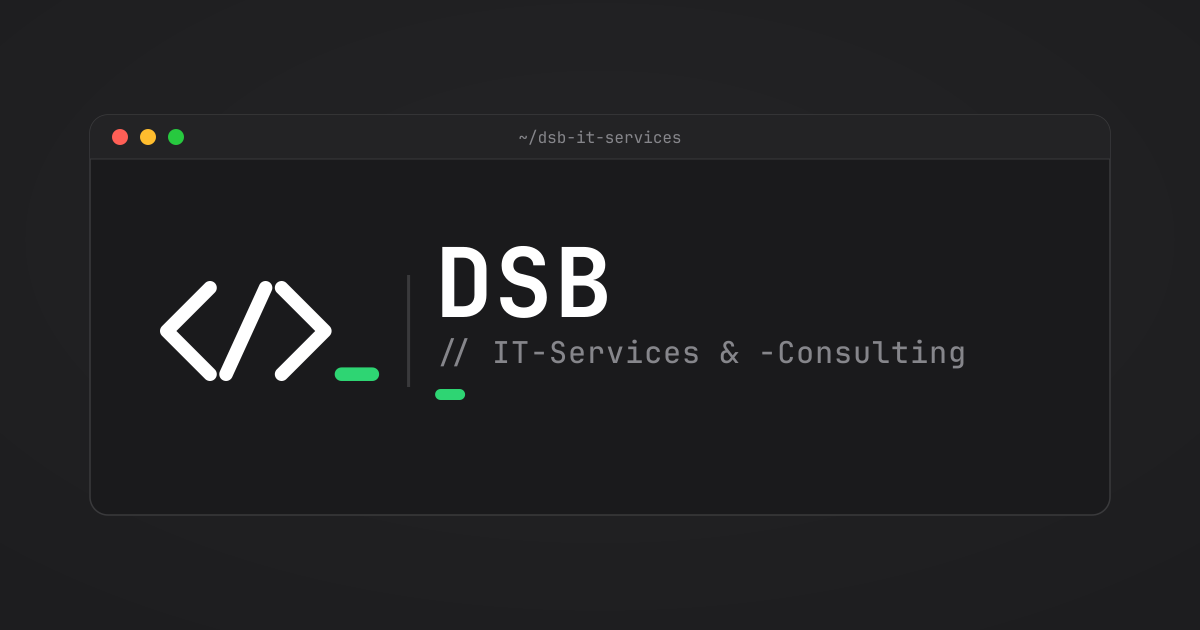
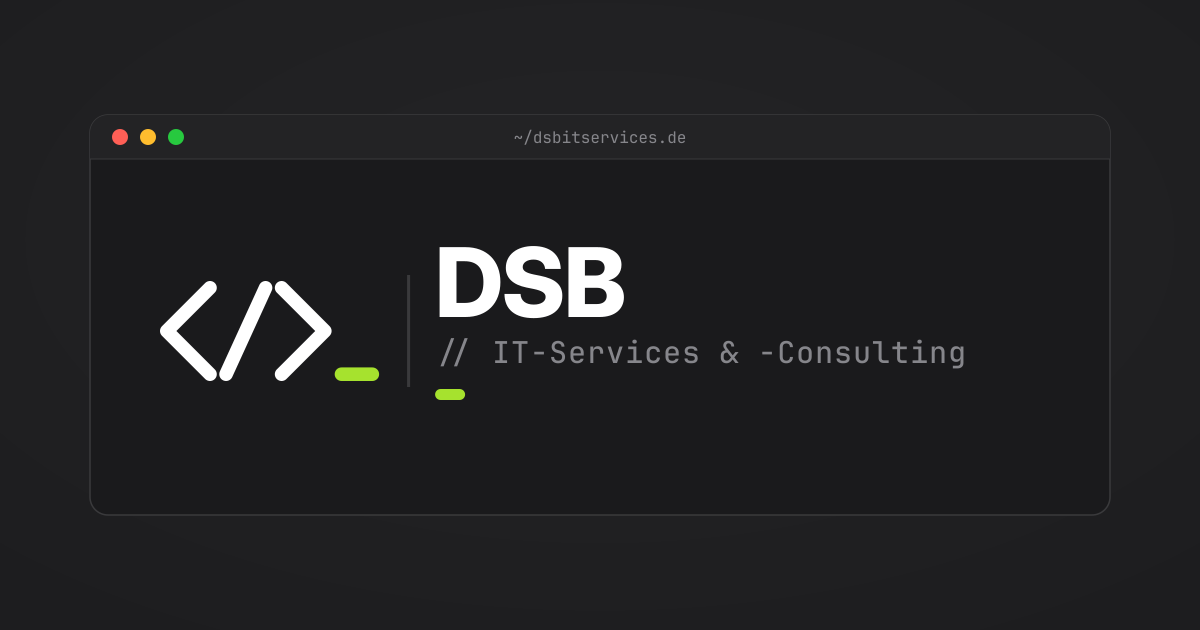
Brand CI v1.1: lime accent, Inter Display wordmark
Replace the mint/emerald accent with a lime signature color and move
the DSB/dsb wordmark from monospace to a bold Inter Display headline
(monospace now reserved for terminal-chrome/tagline text only), per
direct feedback and a reference screenshot.

Also documents two concrete, actively operating "DSB"-named German IT
companies found during a naming-collision check (dsb IT-Services GmbH,
DSB Data Service for Business GmbH), and notes the dsbitservices.de
domain is already distinct from both -- domain registration doesn't by
itself resolve a company-name/trademark conflict.

Claude-Session: https://claude.ai/code/session_01TPTaYvHv7HHe8MeCBmYDpN

diff --git a/brand/BRAND-CI.md b/brand/BRAND-CI.md
@@ -1,8 +1,10 @@
 # DSB IT-Services & -Consulting — Brand CI
 
-Version 1.0 · September 2026 · Konzept: „Terminal Mark"
+Version 1.1 · September 2026 · Konzept: „Terminal Mark"
 
 Vollständig neu konstruiertes Markensystem auf Basis der ursprünglichen Sketch-Idee (`<`, `>`, `/`, `_`). Geometrie, Proportionen und Farbsystem wurden für professionelle Anwendung neu aufgebaut — nicht die Handzeichnung 1:1 übernommen.
+
+**Änderungen v1.1:** Akzentfarbe von Mint/Emerald auf Lime umgestellt, Wortmarke „DSB"/„dsb" von Monospace auf einen fetten Grotesk-Display-Font umgestellt (Monospace bleibt für Terminal-Chrome/Tagline), Abschnitt 7 um konkrete Namenskollisions-Funde ergänzt.
 
 ---
 
@@ -26,7 +28,7 @@ Vollständig neu konstruiertes Markensystem auf Basis der ursprünglichen Sketch
 | **Terminal Black** | `#1D1D1F` | 29, 29, 31 | 6, 6, 0, 88 | Primäre Fläche (dunkel), Text auf Hell |
 | **Cloud White** | `#F5F5F7` | 245, 245, 247 | 1, 1, 0, 3 | Primäre Fläche (hell) |
 | **Reinweiß** | `#FFFFFF` | 255, 255, 255 | 0, 0, 0, 0 | Marke auf dunklem Grund |
-| **Terminal Green** | `#2ED573` | 46, 213, 115 | 78, 0, 46, 16 | **Signature-Akzent** — Cursor, Links, CTAs, Erfolgsstatus |
+| **Lime** | `#A6E22E` | 166, 226, 46 | 27, 0, 80, 11 | **Signature-Akzent** — Cursor, Links, CTAs, Erfolgsstatus |
 | **Slate Gray** | `#86868B` | 134, 134, 139 | 4, 4, 0, 45 | Sekundärtext, Taglines |
 | **Border Gray** | `#3A3A3C` | 58, 58, 60 | 3, 3, 0, 76 | Trennlinien, Chrome-Rahmen (Dark) |
 | Traffic Red *(nur Fenster-Chrome)* | `#FF5F56` | 255, 95, 86 | 0, 63, 66, 0 | Nur im Terminal-Chrome-Element, kein Markenfarbe |
@@ -35,7 +37,9 @@ Vollständig neu konstruiertes Markensystem auf Basis der ursprünglichen Sketch
 
 \* CMYK-Werte sind rechnerische Näherungen (Standard-Konversion) für die erste Druck-Orientierung — vor Produktion mit dem ICC-Profil der Druckerei bzw. einem Pantone-Bridge-Fächer abgleichen. Nicht 1:1 als Sonderfarbe freigeben.
 
-**Kontrast:** Terminal Green auf Terminal Black erfüllt WCAG-Grafikkontrast (>3:1) komfortabel. Für Fließtext niemals Grau-auf-Grau oder Green-auf-White unter 14px einsetzen.
+**Kontrast:** Lime auf Terminal Black erfüllt WCAG-Grafikkontrast (>3:1) deutlich. Für Fließtext niemals Grau-auf-Grau oder Lime-auf-White unter 14px einsetzen — Lime ist ein Akzent, kein Lesefarbe.
+
+**Warum Lime statt Mint/Grün:** Klassischer Terminal-/Editor-Bezug (u. a. Monokai-Farbschema) statt generisches „Tech-Grün" — schärfer, unverwechselbarer, funktioniert als kleiner Akzent (Cursor, CTA) besser als in der Fläche.
 
 **Regel:** Genau **eine** Akzentfarbe. Die Ampel-Farben sind ausschließlich dekoratives Chrome-Element (Fenstersimulation), niemals als Markenfarbe in Diagrammen, Buttons o. Ä. verwenden — sonst verwässert der Wiedererkennungswert.
 
@@ -43,17 +47,25 @@ Vollständig neu konstruiertes Markensystem auf Basis der ursprünglichen Sketch
 
 ## 3. Typografie
 
+Zwei Rollen, bewusst getrennt — genau wie im Referenz-Screenshot (fette Headline + kleine Monospace-Terminalzeile):
+
 | Rolle | Font | Schnitt | Lizenz |
 |---|---|---|---|
-| **Primär (Cross-Plattform, Web, Office)** | JetBrains Mono | Bold/SemiBold (Wortmarke), Medium/Regular (Fließtext) | SIL Open Font License 1.1 — frei kommerziell nutz-, einbett- und modifizierbar |
-| **Enhancement (nur native Apple-Umgebung)** | SF Mono | via System-Fontstack | Apple-proprietär — **nicht** für Web-Embedding oder Drittsysteme lizenziert, nur auf Apple-Geräten via Systemfont zulässig |
+| **Display — Name/Headline** („DSB", „dsb") | Inter Display (Fallback: Inter) | ExtraBold 800, Letter-Spacing leicht negativ (−1 bis −2 %) | SIL Open Font License 1.1 — frei kommerziell nutz-, einbett- und modifizierbar |
+| **Mono — Terminal-Chrome/Tagline** (`// IT-Services & -Consulting`, Pfad-Zeile, Labels) | JetBrains Mono | Medium/Regular | SIL Open Font License 1.1 |
+| **Enhancement (nur native Apple-Umgebung)** | SF Mono | via System-Fontstack, ersetzt JetBrains Mono nur dort | Apple-proprietär — **nicht** für Web-Embedding oder Drittsysteme lizenziert |
 
-**CSS-Fontstack:**
+**Regel:** Der eigentliche Markenname („DSB"/„dsb") steht **immer** in Inter Display ExtraBold — nie in Monospace. Monospace ist reserviert für alles, was wie eine Terminal-Ausgabe wirken soll (Tagline, Pfad-Zeile, Meta-Labels). Die beiden Rollen nicht vertauschen, sonst geht der Kontrast zwischen „Marke" und „Terminal-Deko" verloren.
+
+**CSS-Fontstacks:**
 ```css
+/* Display / Wortmarke */
+font-family: 'Inter Display', 'Inter', ui-sans-serif, system-ui, sans-serif;
+/* Mono / Terminal-Chrome */
 font-family: 'JetBrains Mono', ui-monospace, 'SF Mono', Menlo, Consolas, monospace;
 ```
 
-**Wichtiger Hinweis:** SF Mono niemals als Webfont hochladen/einbetten (Lizenzverletzung). JetBrains Mono ist der tatsächliche Cross-Plattform-Markenfont; SF Mono greift automatisch nur auf Apple-Geräten über den System-Fontstack.
+**Wichtiger Hinweis:** SF Mono niemals als Webfont hochladen/einbetten (Lizenzverletzung). Sowohl Inter als auch JetBrains Mono sind frei; SF Mono greift automatisch nur auf Apple-Geräten über den System-Fontstack.
 
 Alle Wortmarken-Dateien in `/svg` sind bereits **in Pfade konvertiert (outlined)** — sie rendern korrekt, auch ohne installierte Schrift auf dem Zielsystem.
 
@@ -111,7 +123,8 @@ Alle Wortmarken-Dateien in `/svg` sind bereits **in Pfade konvertiert (outlined)
 **Do:**
 - Symbol immer proportional skalieren (nie Höhe/Breite getrennt verzerren).
 - Auf dunklem Grund → Weiß/Green-Variante. Auf hellem Grund → Black/Green-Variante. Auf Fotos/komplexem Hintergrund → Mono-Variante mit dezentem Schlagschatten oder auf Terminal-Kachel setzen.
-- Cursor-Akzent bleibt immer Terminal Green — auch wenn die Struktur (Klammern) in Sonderfällen einfarbig läuft.
+- Cursor-Akzent bleibt immer Lime — auch wenn die Struktur (Klammern) in Sonderfällen einfarbig läuft.
+- Markenname „DSB"/„dsb" immer in Inter Display ExtraBold, nie in Monospace setzen.
 
 **Don't:**
 - Keine zweite Akzentfarbe einführen (kein Blau/Orange/Rot als „Highlight" — verwässert Wiedererkennung).
@@ -124,7 +137,18 @@ Alle Wortmarken-Dateien in `/svg` sind bereits **in Pfade konvertiert (outlined)
 
 ## 7. Rechtlicher Hinweis — vor Launch prüfen
 
-„DSB" ist als Kürzel bereits durch etablierte Dritte belegt (u. a. Danske Statsbaner/DSB — dänische Staatsbahn, im deutschsprachigen Raum bekannt; „Deutscher Schützenbund" nutzt ebenfalls DSB). Das ist kein Grund, das Konzept zu verwerfen, aber: **vor Investition in Druck, Domains oder Ad-Spend** eine Markenrecherche (DPMA-Register für DE, ggf. EUIPO für EU) in der einschlägigen Nizza-Klasse (IT-Dienstleistungen) durchführen. Eine reine Google-Prüfung reicht nicht — das ist ein Registerabgleich, keine Design-Frage. Ich bin kein Anwalt; das hier ist ein Hinweis, keine Rechtsberatung.
+**Verschärft gegenüber v1.0: konkrete Treffer, nicht nur generisches Risiko.** Websuche (September 2026) zeigt mindestens zwei bereits aktive deutsche IT-Unternehmen mit „DSB" im Namen:
+
+- **dsb IT-Services GmbH**, Neckarsulm — Domain `dsb-its.net`, HRB 734287 (AG Stuttgart), Geschäftsfeld laut Eigenbeschreibung: Software, Consulting, IT-Systemhaus. Name und Branche praktisch identisch zu „DSB IT-Services & -Consulting".
+- **DSB Data Service for Business GmbH**, Wismar/Hamburg/Rostock — Domain `dsbnet.de`, ebenfalls IT-Dienstleistungen.
+
+Dazu weiterhin die generischeren Kollisionen aus v1.0 (Danske Statsbaner, Deutscher Schützenbund) — hier eher Marken-/Verwechslungsrisiko außerhalb der Branche als direkte Namensgleichheit.
+
+**Eigene Domain:** `dsbitservices.de` — bereits klar unterschieden von `dsb-its.net` (der Neckarsulmer GmbH) und `dsbnet.de`. Das ist gut, löst aber die Namens-/Markenfrage nicht: Domain-Registrierung und Firmennamens-/Markenrecht sind zwei unabhängige Register. Eine freie Domain heißt nicht automatisch ein freier Firmen- oder Markenname.
+
+**Einordnung:** Das ist kein automatisches Show-Stopper — Kürzel-Überschneidungen sind bei drei Buchstaben statistisch normal, und Namensrecht hängt an Region, Branche und tatsächlicher Verwechslungsgefahr, nicht am bloßen Auftauchen in einer Google-Suche. Aber eine **fast namens- und branchengleiche, aktiv operierende GmbH** im selben Land ist ein deutlich konkreteres Risiko als eine übliche Kürzel-Kollision — das rechtfertigt eine Prüfung *vor* jeder weiteren Investition (Domain, Drucksachen, Ads), nicht erst vor dem Launch.
+
+**Nächster Schritt:** DPMA-Registerabgleich (Wortmarke + Wort-/Bildmarke, Nizza-Klasse 35/41/42 je nach Leistungsspektrum), Handelsregister-Abgleich auf Verwechslungsgefahr, ggf. anwaltliche Kurzprüfung. Ich bin kein Anwalt — das hier ist eine recherchierte Tatsachenfeststellung, keine Rechtsberatung.
 
 ---
 
